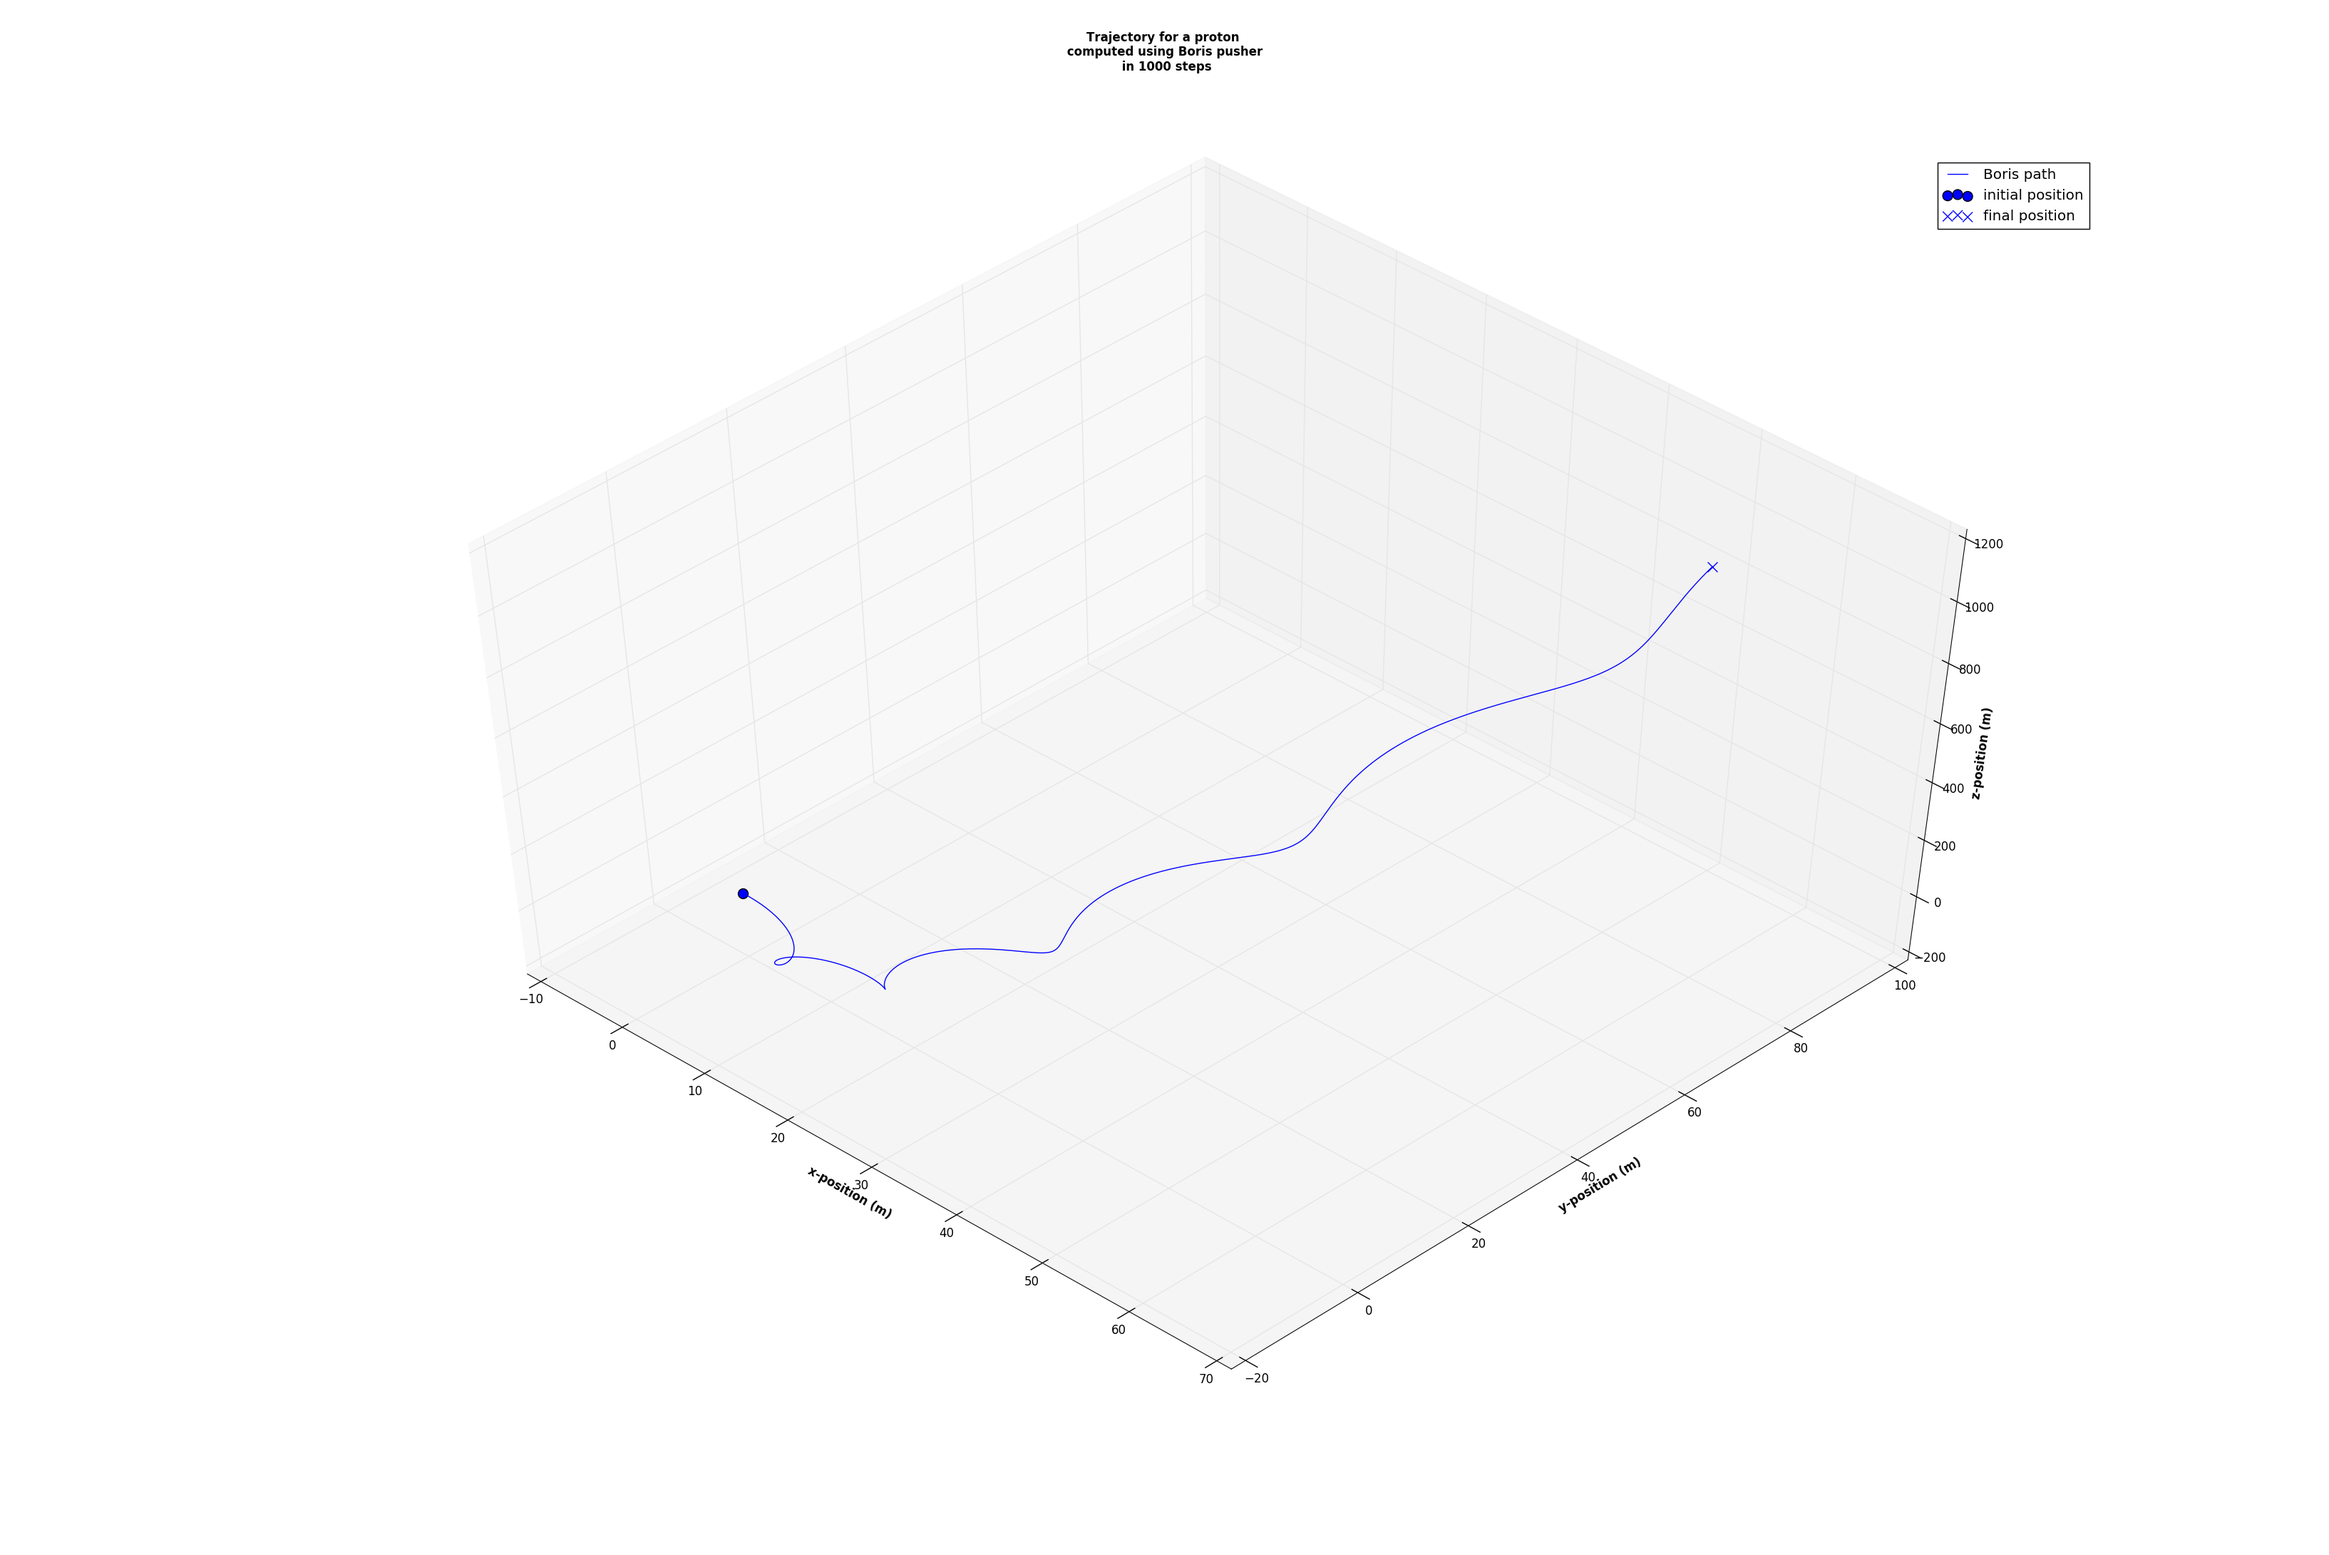
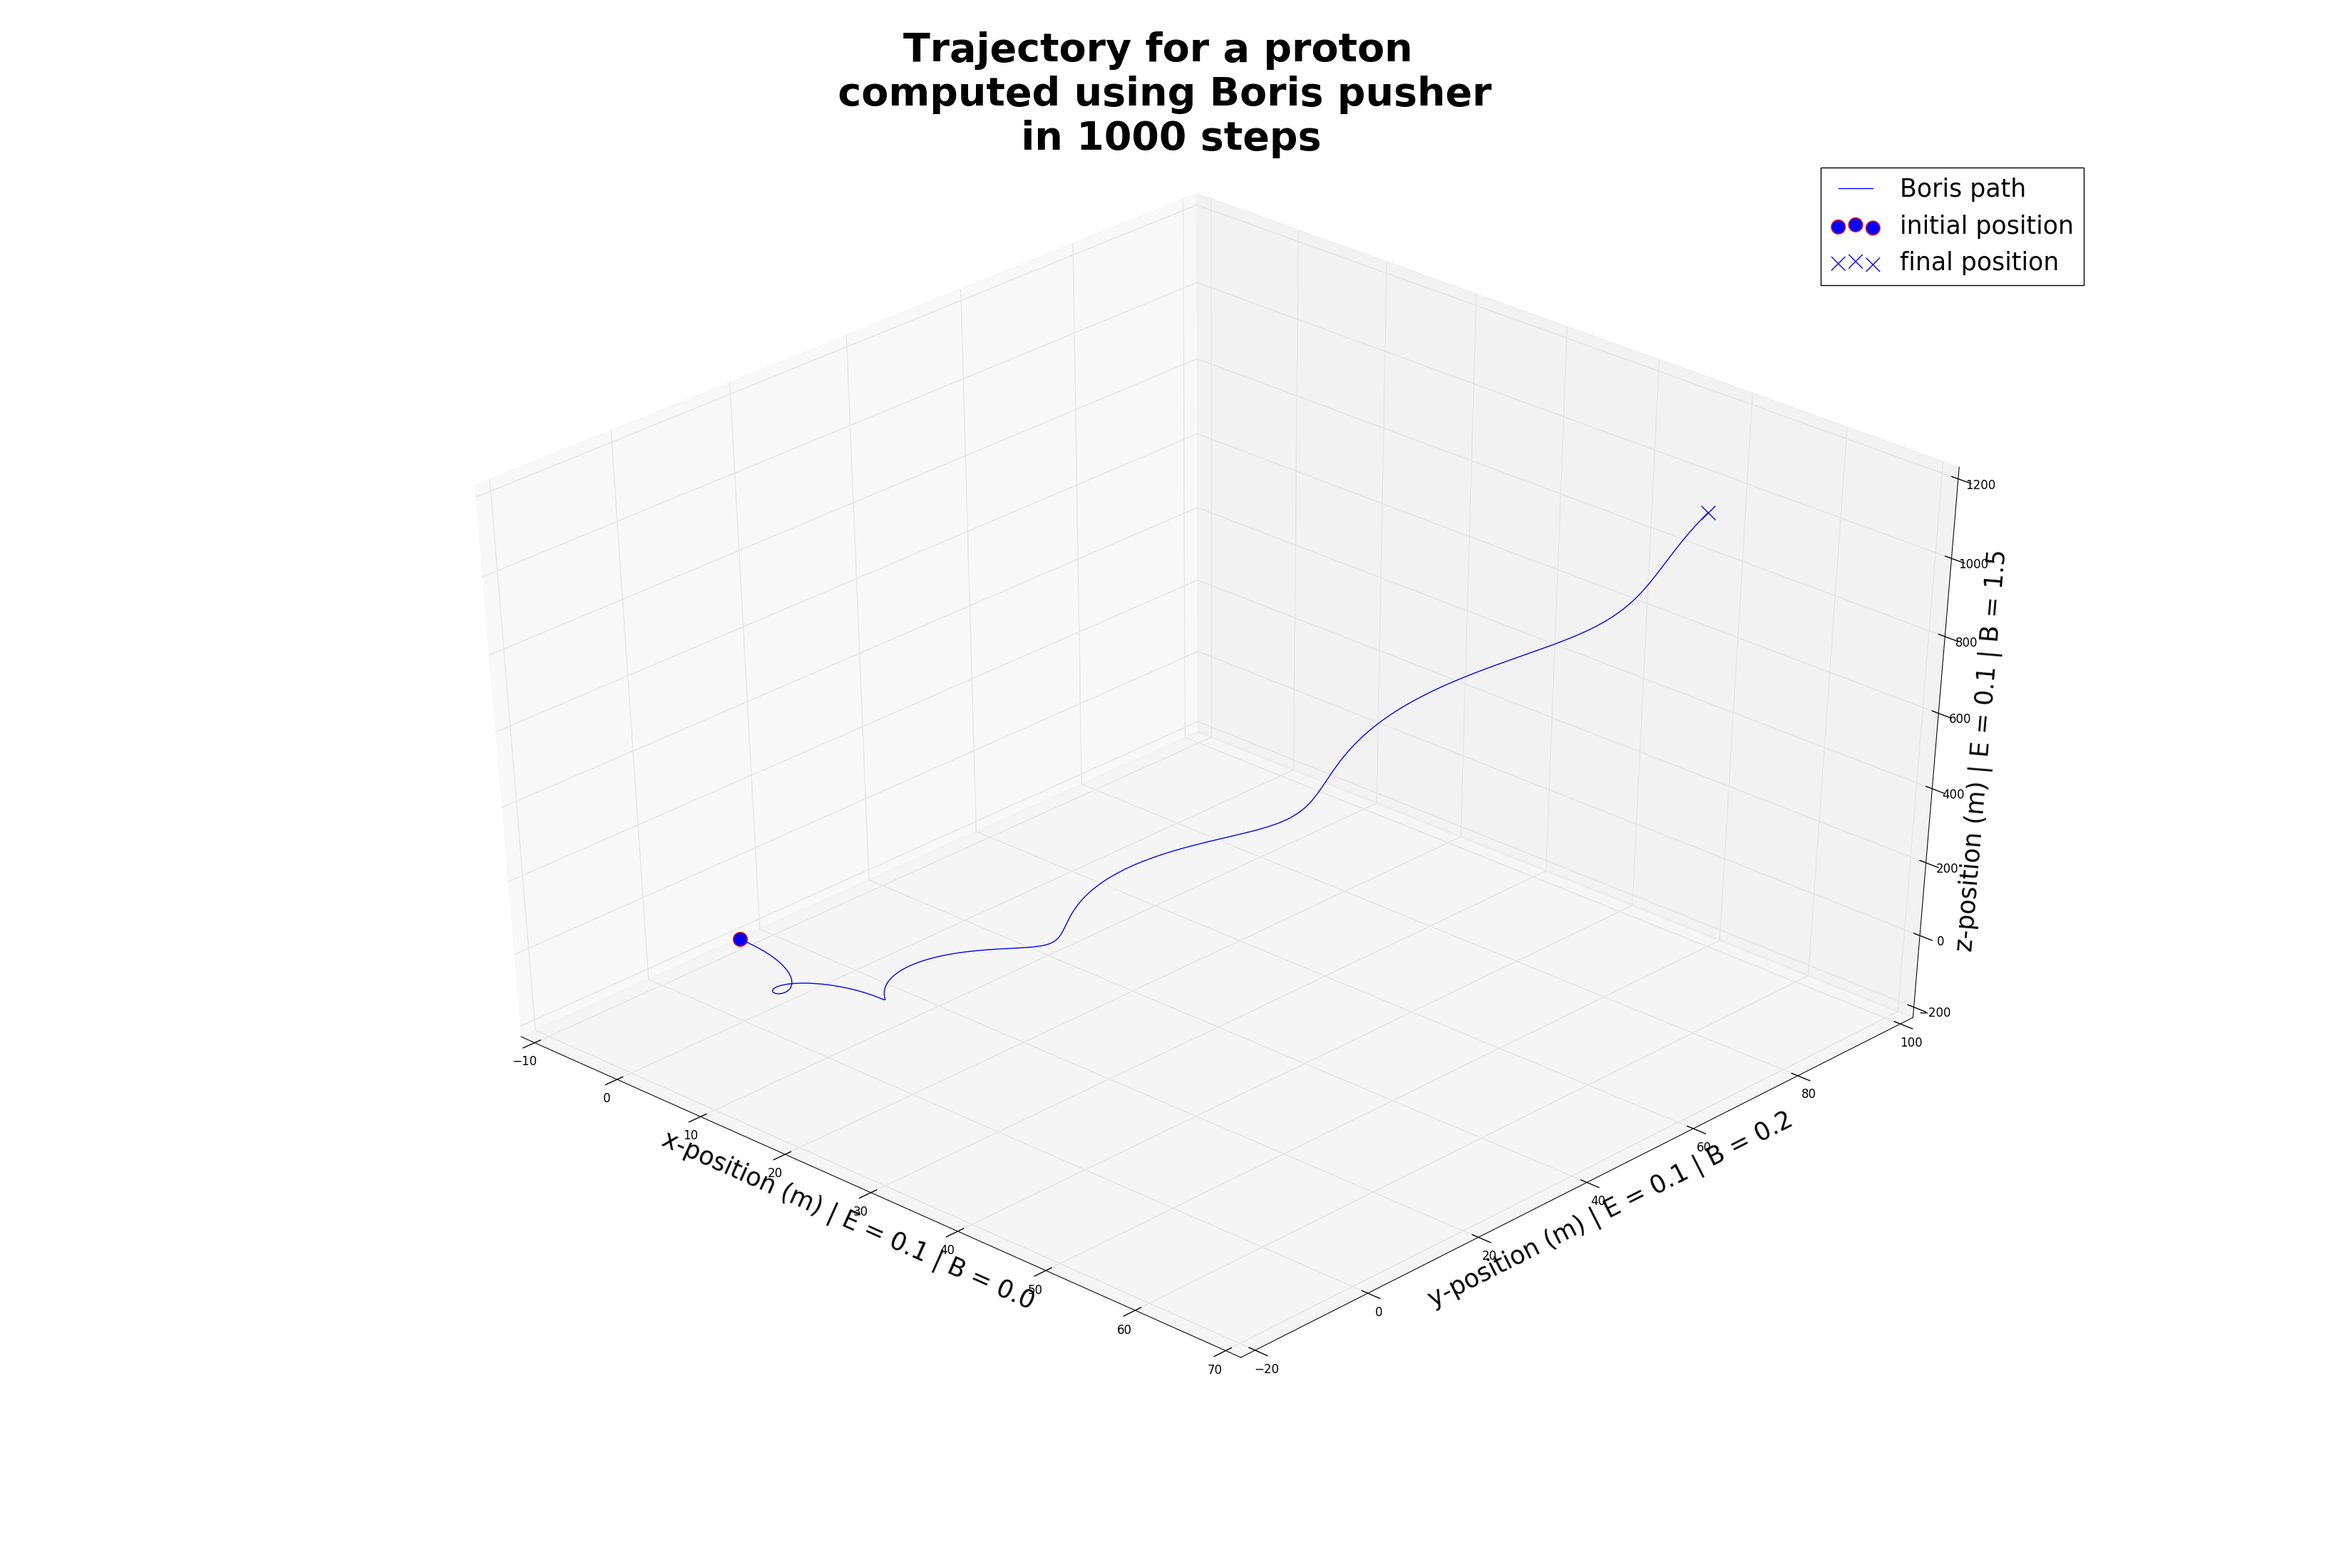
experimental time-varying

diff --git a/em_code/boris3d.py b/em_code/boris3d.py
@@ -74,8 +74,8 @@ if analysis_on == 1 :
 	larmor_radius = (mass * np.linalg.norm(vel_0))**2 / (charge *np.linalg.norm(np.cross(vel_0 , B)))
 	
 #calculate the magnetic field as a function of time
-def field ( t ) :
-	return B
+def b_field ( t ) :
+	return np.cos(np.multiply(B, 2.0 * np.pi / 30.0))
 	
 #calculate the acceleration
 def acceleration ( EField , BField , velocity ) :
@@ -92,6 +92,8 @@ v_nminushalf = np.subtract(vel_0 , np.multiply(h/2. , a_0) )
 vel_0 = v_nminushalf
 
 for step in range(steps) :
+	#a_0 = acceleration ( E , B , vel_0 )
+	#B = b_field(time)
 	
 	v_minus = np.add( vel_0 , np.multiply( h/2. , np.multiply( charge/mass , E ) ) )
 	v_nminushalf = np.subtract( v_minus , np.multiply( charge/mass , E ) )
@@ -113,7 +115,7 @@ for step in range(steps) :
 #--------------------- generate the plot
 fig = plt.figure()
 
-fig.suptitle('Trajectory for a proton \n computed using Boris pusher \n in ' + str(steps) + " steps" , fontweight='bold')
+fig.suptitle('Trajectory in EM field \n computed using Boris pusher \n in ' + str(steps) + " steps" , fontweight='bold' , fontsize=40)
 #pltPos = fig.add_subplot(111)
 
 #pltPos.grid(b=True, color='k', linestyle='--')
@@ -138,8 +140,8 @@ fig.suptitle('Trajectory for a proton \n computed using Boris pusher \n in ' + s
 
 ax = fig.gca(projection='3d')
 ax.plot(plot_pos_x, plot_pos_y, plot_pos_z, label='Boris path')
-ax.scatter(plot_pos_x[0] , plot_pos_y[0] , plot_pos_z[0] , color='k' , s=100,marker='o' , label='initial position')
-ax.scatter(plot_pos_x[-1] , plot_pos_y[-1] , plot_pos_z[-1] , color='k' , s=100,marker='x' , label='final position')
+ax.scatter(plot_pos_x[0] , plot_pos_y[0] , plot_pos_z[0] , color='r' , s=200,marker='o' , label='initial position')
+ax.scatter(plot_pos_x[-1] , plot_pos_y[-1] , plot_pos_z[-1] , color='r' , s=200,marker='x' , label='final position')
 #ax.quiver(larmor_radius , larmor_radius , 2 , B[0]*1000 , B[1]*1000, B[2]*1000 , length = 3.0, colors = (1,.5,1,1), label='B-field (not to scale)', normalize=True)
 #ax.quiver(larmor_radius , larmor_radius , 0 , E[0]*1000 , E[1]*1000, E[2]*1000 , length = 3.0, colors = (.5,1,1,1), label='E-field (not to scale)', normalize=True)
 #ax.set_xlim(-100)
@@ -148,13 +150,13 @@ ax.scatter(plot_pos_x[-1] , plot_pos_y[-1] , plot_pos_z[-1] , color='k' , s=100,
 
 #ax.text(pos_init[0] + 1, pos_init[1] + 1, pos_init[2] + 1, 'starting position' + str(pos_init))
 
-ax.set_xlabel('x-position (m) | E = ' + str(E[0]) +  ' | B = ' + str(B[0]) , fontweight='bold')
-ax.set_ylabel('y-position (m) | E = ' + str(E[1]) +  ' | B = ' + str(B[1]) , fontweight='bold')
-ax.set_zlabel('z-position (m) | E = ' + str(E[2]) +  ' | B = ' + str(B[2]) , fontweight='bold')
+ax.set_xlabel('x-position (m) | E = ' + str(E[0]) +  ' | B = ' + str(B[0]) , fontweight='light' , fontsize=25)
+ax.set_ylabel('y-position (m) | E = ' + str(E[1]) +  ' | B = ' + str(B[1]) , fontweight='light' , fontsize=25)
+ax.set_zlabel('z-position (m) | E = ' + str(E[2]) +  ' | B = ' + str(B[2]) , fontweight='light' , fontsize=25)
 ax.legend()
 
-#ax.set_aspect('equal')
-plt.legend(loc='best')
+#ax.set_aspect(1)
+plt.legend(loc='best' , fontsize=25)
 plt.show()
 
 
